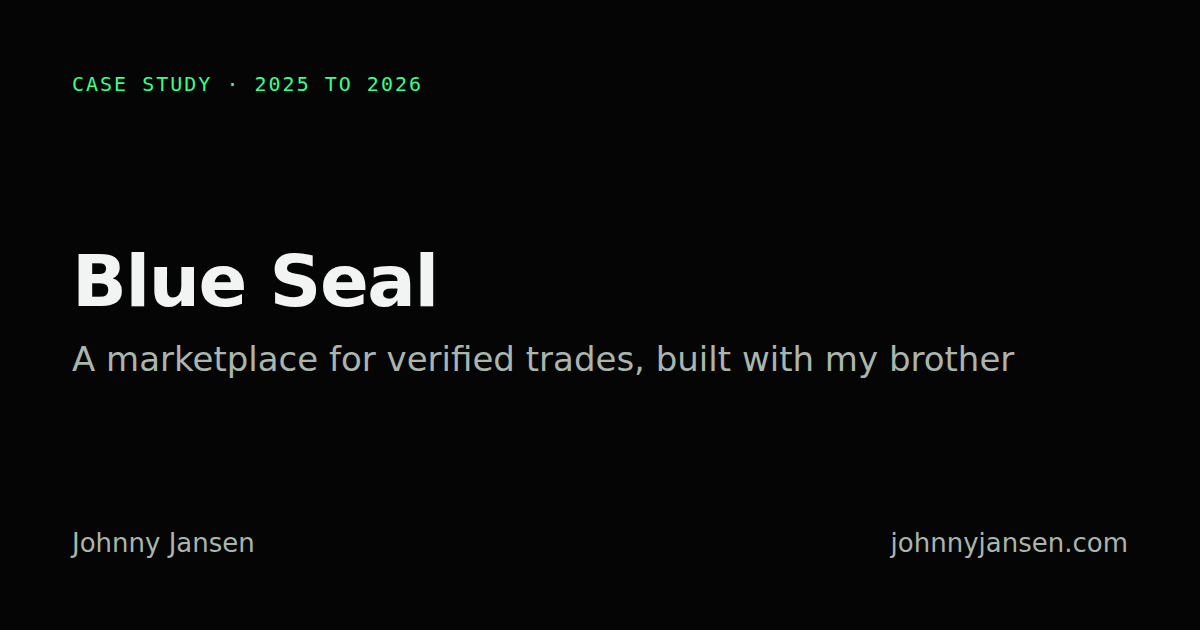
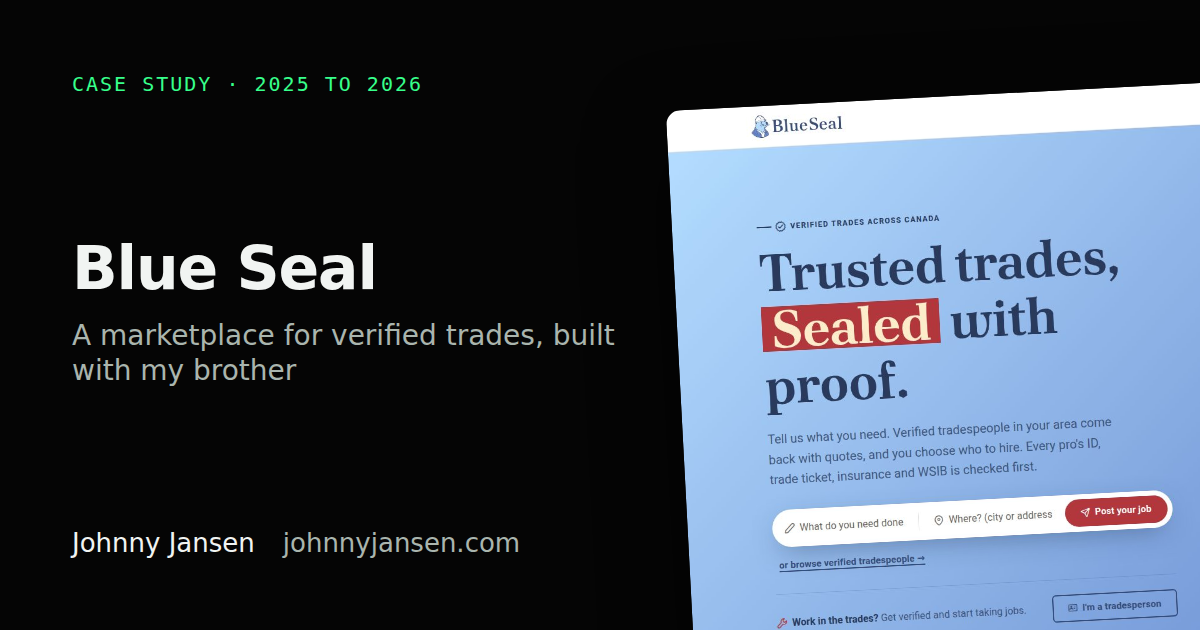
Site: real screenshots on the cards, case studies and share images
Live captures of Wishbone (the new platform at new.wishboneltd.com; the
apex still served the old site), Blue Seal, BetterTour and Pocket Jams at
desktop and phone width. Remoose's studio needs a live Firestore stream
the capture relay cannot carry, so its card is the remix-tree still from
the old site, marked manual so a re-run never overwrites it. WaldeTree
has no live site yet and falls back to its share image.

The capture script relays every page request through curl because this
sandbox refuses a browser TLS handshake; DIRECT=1 skips the relay on a
normal machine. Per-site steps dismiss cookie banners and the Wishbone
persona gate before the shutter.

Share images now composite the screenshot beside the title, and the
case-study pages open with the desktop capture under the header. Cards
show the screenshot at full strength with the name below it instead of
a dark block.

Claude-Session: https://claude.ai/code/session_014PQMhmxjHB5YruPZAf68GJ

diff --git a/app/components/ProjectCard.vue b/app/components/ProjectCard.vue
@@ -1,6 +1,8 @@
 <script setup lang="ts">
 import type { Project } from "~/data/projects";
-defineProps<{ project: Project; featured?: boolean }>();
+const props = defineProps<{ project: Project; featured?: boolean }>();
+// A real screenshot when one exists, else the share image, which carries the name.
+const image = computed(() => props.project.image ?? `/og/${props.project.slug}.png`);
 </script>
 
 <template>
@@ -8,23 +10,18 @@ defineProps<{ project: Project; featured?: boolean }>();
     :to="`/work/${project.slug}`"
     class="group flex flex-col overflow-hidden rounded-lg border border-line bg-surface transition-colors hover:border-accent"
   >
-    <div
-      class="dark-zone relative flex aspect-[16/9] items-end bg-dark-surface p-5"
-      :class="featured ? 'md:aspect-[21/9]' : ''"
-    >
+    <div class="relative aspect-[16/9] overflow-hidden bg-dark-surface" :class="featured ? 'md:aspect-[21/9]' : ''">
       <img
-        v-if="project.image"
-        :src="project.image"
-        alt=""
+        :src="image"
+        :alt="`${project.name} screenshot`"
         loading="lazy"
-        class="absolute inset-0 h-full w-full object-cover opacity-60"
+        class="absolute inset-0 h-full w-full object-cover object-top transition-transform duration-500 group-hover:scale-[1.02]"
       >
-      <span class="relative font-display text-2xl font-semibold text-dark-ink">{{ project.name }}</span>
     </div>
     <div class="flex flex-1 flex-col gap-2 p-5">
       <p class="eyebrow text-ink-3">{{ project.years }} · {{ project.status }}</p>
-      <p class="font-display text-lg font-semibold leading-snug">{{ project.tagline }}</p>
-      <p class="line-clamp-3 text-[15px] text-ink-2">{{ project.summary }}</p>
+      <p class="font-display text-xl font-semibold leading-snug">{{ project.name }}</p>
+      <p class="text-[15px] text-ink-2">{{ project.tagline }}</p>
       <span class="mt-auto pt-2 text-sm font-semibold text-accent group-hover:underline">Read the case study</span>
     </div>
   </NuxtLink>

diff --git a/app/data/projects.ts b/app/data/projects.ts
@@ -65,7 +65,7 @@ export const projects: Project[] = [
     ],
     stack: "Nuxt 3 (SSR), Vue 3, TypeScript, Tailwind, Firebase (Firestore, Functions, Hosting), Ragic ERP, three.js, Vertex AI, Playwright, Vitest",
     video: { provider: "youtube", id: "oopMUokWKD8", title: "Wishbone brand film" },
-    image: "/static/stories/wishbone-card.jpg",
+    image: "/static/work/wishbone.jpg",
     draft: true,
   },
   {
@@ -104,6 +104,7 @@ export const projects: Project[] = [
     ],
     stack: "Vue 3, TypeScript, Canvas 2D, WebCodecs, Firebase, Zod, Vitest",
     video: { provider: "vimeo", id: "1102400408", title: "Remoose product demo" },
+    image: "/static/work/remoose.jpg",
   },
   {
     slug: "blue-seal",
@@ -137,6 +138,7 @@ export const projects: Project[] = [
     },
     outcome: ["Payments shipped to a test-mode Stripe account; live launch is gated on legal sign-off"],
     stack: "Vue 3, TypeScript, PrimeVue, Tailwind, Firebase, Stripe Connect, Vertex AI, Playwright, Vitest",
+    image: "/static/work/blue-seal.jpg",
   },
   {
     slug: "bettertour",
@@ -170,6 +172,7 @@ export const projects: Project[] = [
     },
     outcome: ["In use on real tours by the collaborators who designed it", "Monetisation built and dormant: free for the whole crew until the paywall is switched on"],
     stack: "Vue 3, TypeScript, Firebase, Vertex AI (Gemini), FlightAware, Stripe, Playwright, Vitest",
+    image: "/static/work/bettertour.jpg",
   },
   {
     slug: "pocket-jams",
@@ -201,6 +204,7 @@ export const projects: Project[] = [
     },
     outcome: ["Playable today by a kid on a phone, which is the only metric that has ever mattered on this one"],
     stack: "Vue 3, TypeScript, Web Audio, Tone.js, Firebase (Firestore, RTDB, Functions), Capacitor, Discord SDK, Vitest",
+    image: "/static/work/pocket-jams.jpg",
   },
   {
     slug: "waldetree",

diff --git a/app/pages/work/[slug].vue b/app/pages/work/[slug].vue
@@ -12,7 +12,7 @@ useSeo({
   path: `/work/${project.slug}`,
   type: "article",
   noindex: project.draft,
-  image: project.image,
+  image: `/og/${project.slug}.png`,
   jsonLd: [
     {
       "@context": "https://schema.org",
@@ -59,6 +59,16 @@ useSeo({
         </dl>
       </div>
     </header>
+
+    <div v-if="project.image" class="mx-auto max-w-6xl px-5 pt-10">
+      <img
+        :src="project.image"
+        :alt="`${project.name} at desktop width`"
+        width="1440"
+        height="900"
+        class="w-full rounded-lg border border-line"
+      >
+    </div>
 
     <div class="mx-auto grid max-w-6xl gap-12 px-5 py-12 md:grid-cols-[1fr_280px] md:py-16">
       <div class="prose-jj">

diff --git a/CLAUDE.md b/CLAUDE.md
@@ -81,7 +81,7 @@ functions/src/            # ensureAdmin, unlockPrototype, setPrototypePassword. 
 firestore.rules, storage.rules, tests/rules/   # Default deny. Emulator tests via pnpm test:rules
 server/routes/llms.txt.ts # Plain-text index for LLM crawlers
 public/                   # Static assets. static/ (logos, photos), videos/, icons/, og-default.png
-public/wishbone, public/WishboneColours.html, public/tools/   # Legacy standalone tools kept at their old URLs. Not linked. Disallowed in robots.txt.
+public/WishboneColours.html, public/tools/   # Standalone HTML prototypes, listed in the lab. public/wishbone/ is a duplicate, disallowed.
 docs/legacy/              # The old single-page site, for reference only
 scripts/render-brand-assets.mjs   # Renders icons + OG image from HTML with Playwright's Chromium
 tests/                    # Vitest. Content integrity: slugs, dashes, description length, placeholders
@@ -120,7 +120,8 @@ pnpm test:e2e        # Playwright against .output/public (run generate first)
 pnpm verify          # lint + typecheck + test:run + functions build + generate
 pnpm test:rules      # Firestore rules against the emulator (needs Java)
 pnpm deploy:backend  # rules + storage + functions, BEFORE the commit that needs them
-node scripts/render-brand-assets.mjs   # Regenerate icons and OG images
+node --experimental-strip-types scripts/render-brand-assets.mjs   # Icons + OG images (default and per project)
+node --experimental-strip-types scripts/capture-work-shots.mjs    # Live-site screenshots for the cards
 firebase emulators:start   # Auth, Firestore, Storage, Functions locally for lab work
 ```
 
